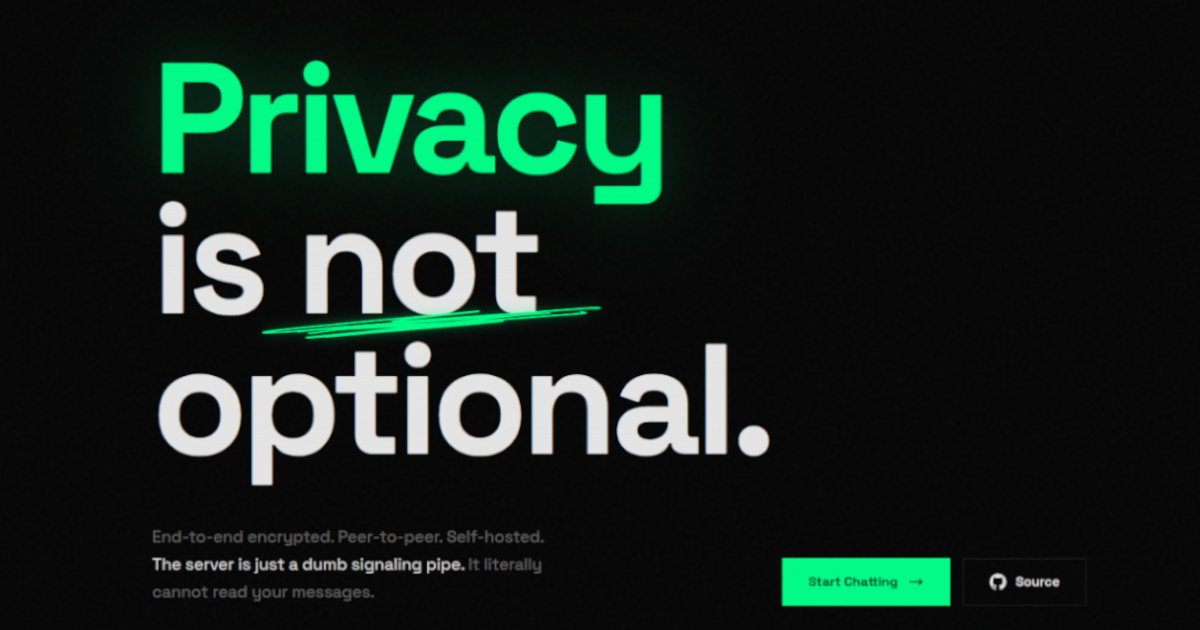
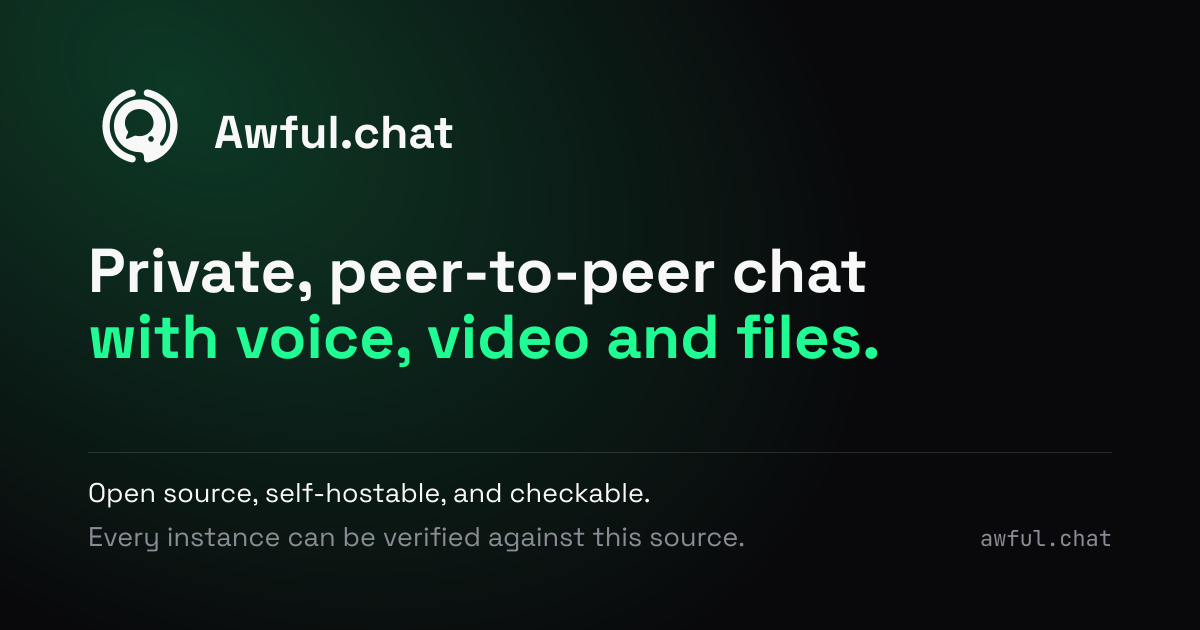
Better link previews, and a way to check what an instance runs (#33)
* settings: link the verifier next to the version it claims

The version badge in Settings > Open source is a claim - this page saying which commit it was built from - and a server can serve anything. The way to check it now sits directly under it, as a runnable command with the host already filled in from window.location rather than a template to edit, and a link to what the check covers and what it cannot.

It goes there rather than on the landing page because that is where the claim is made: the two belong on the same screen, or the badge reads as a fact.

* og: new cards for the landing page and room invites

The landing card was 543 KB, which every scraper fetches on every share, and
it opened with a slogan - what the thing actually IS sat in 14px grey at the
bottom, unreadable at the size a card is seen. It also drew two buttons, and
a social card is not clickable, so a picture of a button is a picture of
something that does not work.

Both cards are one system now: the logo lockup, a two-line headline, a rule,
and a two-line strip. 543 KB becomes 101 KB.

The invite card is 1200x630 rather than 1200x635. That odd height was the
only reason the /r/ block rewrote the og:image:height meta tag, so that
sub_filter goes with it.

og:image:alt described the product rather than the picture, and /r/ pages
inherited the landing page's copy, so an invite card announced the wrong
image. It says what is on the card now, and the /r/ block rewrites it along
with the image itself.
[…]

diff --git a/frontend/src/lib/components/SettingsDialog.svelte b/frontend/src/lib/components/SettingsDialog.svelte
@@ -13,6 +13,27 @@
     DrawerTitle,
   } from "$lib/components/ui/drawer";
   import { viewportHeight } from "$lib/actions/viewport-height";
+
+  // Filled in with the host the page is actually served from, so the command
+  // is runnable as printed rather than a template to edit.
+  const verifyCommand = $derived(
+    `npx github:awful-org/awful-verify ${
+      typeof window === "undefined" ? "your-instance" : window.location.host
+    }`
+  );
+  let verifyCopied = $state(false);
+  let verifyCopiedTimer: ReturnType<typeof setTimeout> | undefined;
+  async function copyVerifyCommand() {
+    try {
+      await navigator.clipboard.writeText(verifyCommand);
+      verifyCopied = true;
+      clearTimeout(verifyCopiedTimer);
+      verifyCopiedTimer = setTimeout(() => (verifyCopied = false), 1600);
+    } catch {
+      // Clipboard denied, or no permission. The command is on screen and
+      // selectable either way.
+    }
+  }
   import { Button } from "$lib/components/ui/button";
   import { lock } from "$lib/identity/identity.svelte";
   import {
@@ -26,6 +47,8 @@
     Heart,
     Puzzle,
     Github,
+    Check,
+    Copy,
   } from "@lucide/svelte";
 
   import ProfileSettings from "./settings/ProfileSettings.svelte";
@@ -177,6 +200,39 @@
         class="shrink-0 rounded-md border border-border px-2 py-1 font-mono text-[11px] text-muted-foreground transition-colors hover:border-primary/60 hover:text-foreground"
       >
         v{__APP_VERSION__}{__APP_COMMIT__ ? `-${__APP_COMMIT__}` : ""}
+      </a>
+    </div>
+    <!-- The badge above is a CLAIM: this page saying which commit it was
+         built from. Nothing about it is evidence, so the way to check it
+         belongs directly underneath, with the host already filled in. -->
+    <div
+      class="flex flex-col gap-2 rounded-lg border border-border/50 bg-muted/30 p-3"
+    >
+      <p class="font-mono text-xs leading-relaxed text-muted-foreground">
+        That version is what this page says it is running. A server can serve
+        anything, so check it:
+      </p>
+      <button
+        type="button"
+        onclick={copyVerifyCommand}
+        class="flex items-center justify-between gap-2 rounded-md border border-border
+          bg-background/60 px-2 py-1.5 text-left font-mono text-[11px]
+          text-foreground transition-colors hover:border-primary/60"
+      >
+        <span class="truncate">{verifyCommand}</span>
+        {#if verifyCopied}
+          <Check class="size-3.5 shrink-0 text-primary" />
+        {:else}
+          <Copy class="size-3.5 shrink-0 text-muted-foreground" />
+        {/if}
+      </button>
+      <a
+        href="https://github.com/awful-org/awful-verify"
+        target="_blank"
+        rel="noopener noreferrer"
+        class="font-mono text-[11px] text-muted-foreground hover:text-primary hover:underline"
+      >
+        what this checks, and what it cannot
       </a>
     </div>
     <p class="text-xs font-mono text-muted-foreground leading-relaxed">

diff --git a/frontend/index.html b/frontend/index.html
@@ -43,7 +43,7 @@
     <meta property="og:image:height" content="630" />
     <meta
       property="og:image:alt"
-      content="Awful.chat - end-to-end encrypted P2P chat"
+      content="Awful.chat: private, peer-to-peer chat with voice, video and files"
     />
     <meta property="og:site_name" content="Awful.chat" />
     <meta property="og:locale" content="en_US" />
@@ -61,7 +61,7 @@
     <meta name="twitter:image" content="https://awful.chat/og.png" />
     <meta
       name="twitter:image:alt"
-      content="Awful.chat - end-to-end encrypted P2P chat"
+      content="Awful.chat: private, peer-to-peer chat with voice, video and files"
     />
 
     <link rel="icon" href="/favicon.ico" />

diff --git a/frontend/src/Landing.svelte b/frontend/src/Landing.svelte
@@ -585,6 +585,11 @@
           target="_blank"
           rel="noopener">Curated plugins</a
         >
+        <a
+          href="https://github.com/awful-org/awful-verify"
+          target="_blank"
+          rel="noopener">Verify this instance</a
+        >
       </div>
       <div class="footer-license font-mono text-muted">
         100% OPEN SOURCE · APACHE-2.0 LICENSE
